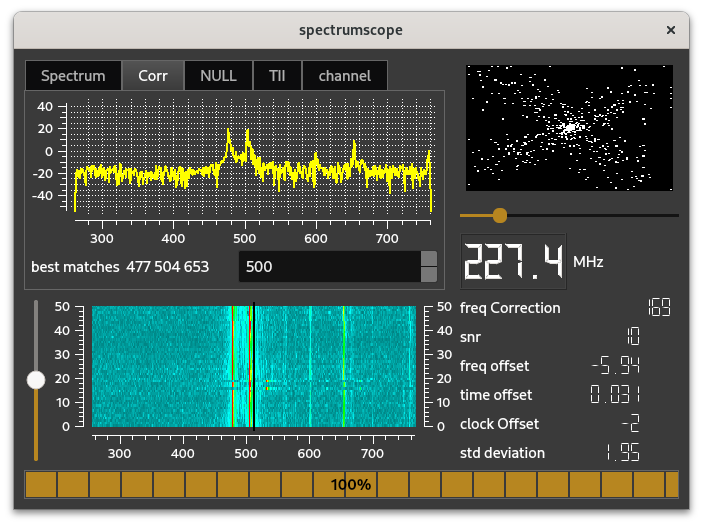
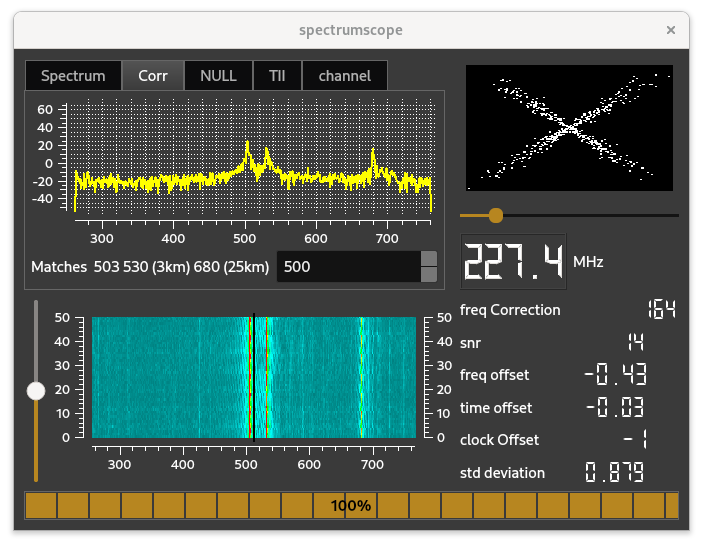
minor changes

diff --git a/qt-dab-s6/radio.cpp b/qt-dab-s6/radio.cpp
@@ -622,8 +622,10 @@ uint8_t	dabBand;
 	      inputDevice -> setVisibility (false);
 	}
 
-	if (dabSettings -> value ("snrVisible", 0). toInt () == 1)
+	if (dabSettings -> value ("snrVisible", 0). toInt () != 0)
 	   my_snrViewer. show ();
+	else
+	   my_snrViewer. hide ();
 	if (dabSettings -> value ("techDataVisible", 0). toInt () == 1)
 	   theTechWindow -> show ();
 
@@ -676,6 +678,7 @@ void	RadioInterface::doStart (const QString &dev) {
 	inputDevice	= setDevice	(dev);
 //	Some buttons should not be touched before we have a device
 	if (inputDevice == nullptr) {
+	   fprintf (stderr, "disconnecting\n");
 	   disconnectGUI ();
 	   return;
 	}
@@ -695,6 +698,7 @@ bool	RadioInterface::doStart	() {
 	channel. cleanChannel ();
 
 //	Some hidden buttons can be made visible now
+	fprintf (stderr, "Connecting GUI\n");
 	connectGUI ();
 
 	if (dabSettings -> value ("showDeviceWidget", 0).  toInt () != 0)
@@ -1707,6 +1711,7 @@ void	RadioInterface::newDevice (const QString &deviceName) {
 	running. store (false);
 	stopScanning	(false);
 	stopChannel	();
+	fprintf (stderr, "disconnecting\n");
 	disconnectGUI	();
 	if (inputDevice != nullptr) {
 	   delete inputDevice;
@@ -2214,6 +2219,11 @@ void	RadioInterface::connectGUI	() {
 	         this, SLOT (handle_prevServiceButton ()));
 	connect (nextServiceButton, SIGNAL (clicked ()),
 	         this, SLOT (handle_nextServiceButton ()));
+	connect (scheduleButton, SIGNAL (clicked ()),
+                 this, SLOT (handle_scheduleButton ()));
+        connect (spectrumButton, SIGNAL (clicked ()),
+                 this, SLOT (handle_spectrumButton ()));
+	fprintf (stderr, "geinstalleerd\n");
 
 	connect (theTechWindow, SIGNAL (handle_audioDumping ()),
 	         this, SLOT (handle_audiodumpButton ()));
@@ -2243,7 +2253,10 @@ void	RadioInterface::disconnectGUI () {
 	         this, SLOT (handle_prevServiceButton ()));
 	disconnect (nextServiceButton, SIGNAL (clicked ()),
 	         this, SLOT (handle_nextServiceButton ()));
-
+	disconnect (scheduleButton, SIGNAL (clicked ()),
+	         this, SLOT (handle_scheduleButton ()));
+	disconnect (spectrumButton, SIGNAL (clicked ()),
+	         this, SLOT (handle_spectrumButton ()));
 	disconnect (theTechWindow, SIGNAL (handle_audioDumping ()),
 	         this, SLOT (handle_audiodumpButton ()));
 	disconnect (theTechWindow, SIGNAL (handle_frameDumping ()),
@@ -4388,9 +4401,10 @@ std::vector<float> inBuffer;
 	inBuffer. resize (s);
 	responseBuffer. getDataFromBuffer (inBuffer. data (), s);
 	responseBuffer. FlushRingBuffer ();
-	if (!newDisplay. isHidden ())
+	if (!newDisplay. isHidden ()) {
 	   if (newDisplay. get_tab () == SHOW_CORRELATION)
 	      newDisplay. showCorrelation (inBuffer, r);
+	}
 }
 	      
 void	RadioInterface::show_null		(int amount) {
@@ -4692,17 +4706,11 @@ void	RadioInterface::connect_configWidget () {
 	connect (configWidget. dumpButton, SIGNAL (clicked ()),
 	         this, SLOT (handle_sourcedumpButton ()));
 
-	connect (scheduleButton, SIGNAL (clicked ()),
-	         this, SLOT (handle_scheduleButton ()));
+//	connect (scheduleButton, SIGNAL (clicked ()),
+//	         this, SLOT (handle_scheduleButton ()));
 
-	connect (spectrumButton, SIGNAL (clicked ()),
-	         this, SLOT (handle_spectrumButton ()));
-
-	connect (configWidget. snrButton, SIGNAL (clicked ()), 
-	         this, SLOT (handle_snrButton ()));
-
-	connect (configWidget. devicewidgetButton, SIGNAL (clicked ()),
-	         this, SLOT (handle_devicewidgetButton ()));
+//	connect (spectrumButton, SIGNAL (clicked ()),
+//	         this, SLOT (handle_spectrumButton ()));
 
 	connect (configWidget. resetButton, SIGNAL (clicked ()),
 	         this, SLOT (handle_resetButton ()));
@@ -4835,11 +4843,6 @@ void	RadioInterface::disconnect_configWidget () {
 	disconnect (configWidget. dumpButton, SIGNAL (clicked ()),
 	         this, SLOT (handle_sourcedumpButton ()));
 
-	disconnect (scheduleButton, SIGNAL (clicked ()),
-	         this, SLOT (handle_scheduleButton ()));
-
-	disconnect (spectrumButton, SIGNAL (clicked ()),
-	         this, SLOT (handle_spectrumButton ()));
 
 	connect (configWidget. snrButton, SIGNAL (clicked ()), 
 	         this, SLOT (handle_snrButton ()));

diff --git a/src/ofdm/correlator.cpp b/src/ofdm/correlator.cpp
@@ -33,6 +33,8 @@
   *	The class inherits from the phaseTable.
   */
 
+#define	MAX_OFFSET	250
+
 	correlator::correlator (RadioInterface *mr,
 	                                processParams	*p):
 	                                     phaseTable (p -> dabMode),
@@ -107,7 +109,7 @@ float	lbuf [T_u / 2];
 	sum /= T_u / 2;
 	QVector<int> indices;
 
-	for (i = T_g - 250; i < T_g + 250; i ++) {
+	for (i = T_g - MAX_OFFSET; i < T_g + MAX_OFFSET; i ++) {
 	   if (lbuf [i] / sum > threshold)  {
 	      bool foundOne = true;
 	      for (int j = 1; (j < 10) && (i + j < T_g + 250); j ++) {
@@ -126,6 +128,24 @@ float	lbuf [T_u / 2];
 	      }
 	   }
 	}
+
+	for (int i = 0; i < indices. size (); i ++) {
+	   if (500 <= indices. at (i) && indices. at (i) <= 510) {
+	      int match = indices. at (i);
+	      std::vector<int> temp;
+	      temp. push_back (indices. at (i));
+	      for (int j = 0; j < i; j ++)
+	         temp. push_back (indices. at (j));
+	      for (int j = i + 1; j < indices. size (); j ++)
+	         temp. push_back (indices. at (j));
+	      indices. resize (0);
+	      for (int i = 0; i < temp. size (); i ++)
+	         indices. push_back (temp. at (i));
+	      break;
+	   }
+	}
+	      
+	
 
 	if (Max / sum < threshold) {
 	   return (- abs (Max / sum) - 1);

diff --git a/qt-dab-s6/forms-v6/new-display/display-widget.cpp b/qt-dab-s6/forms-v6/new-display/display-widget.cpp
@@ -164,13 +164,21 @@ void	displayWidget::showCorrelation	(std::vector<float> &v,
 	                                 QVector<int> &ww) {
 	if (currentTab != SHOW_CORRELATION)
 	   return;
-	myCorrelationScope	-> display (v,correlationLength -> value ());
+	myCorrelationScope	-> display (v, correlationLength -> value ());
 	if (ww. size () > 0) {
-	   QString t = "best matches ";
-	   for (int i = 0; i < ww. size (); i ++)
+	   int baseOffset = ww [0];
+	   QString t = "Matches ";
+	   for (int i = 0; i < ww. size (); i ++) {
 	      t = t + " " + QString::number (ww [i]);
+	      if (i >= 1) {
+	         int lO = ww [i] - ww [0];
+	         int d = (300000 / 2048 * lO) / 1000;
+	         t = t + " (" + QString::number (d) + "km)";
+	      }
+	   }
 	   correlationsVector -> setText (t);
 	}
+
 	if (v. size () < 512)
 	   return;
 	double X_axis [512];

diff --git a/viewers/snr-viewer/snr-viewer.cpp b/viewers/snr-viewer/snr-viewer.cpp
@@ -116,18 +116,17 @@ QString	colorString	= "black";
 //	delete lpickerMachine;
 }
 
-
 void	snrViewer::show () {
-	myFrame. show();
+	myFrame. show ();
 }
 
 void	snrViewer::hide	() {
-	myFrame. hide();
+	myFrame. hide ();
 	stopDumping ();
 }
 
 bool	snrViewer::isHidden () {
-	return myFrame. isHidden();
+	return myFrame. isHidden ();
 }
 
 void	snrViewer::add_snr	(float snr) {

diff --git a/src/ofdm/estimator.cpp b/src/ofdm/estimator.cpp
@@ -78,7 +78,7 @@ float	Phi_k;
 	   }
 	}
 
-	fprintf (stderr, "numberofPilots %d (%d)\n", numberofPilots, carriers);
+//	fprintf (stderr, "numberofPilots %d (%d)\n", numberofPilots, carriers);
         numberofTaps		= T_g;
         F_p                     = MatrixXd (numberofPilots, numberofTaps);
         S_p                     = MatrixXd (numberofPilots,

diff --git a/src/backend/backend.cpp b/src/backend/backend.cpp
@@ -97,7 +97,7 @@ int32_t i, j;
 #endif
 }
 
-	Backend::~Backend() {
+	Backend::~Backend () {
 #ifdef	__THREADED_BACKEND
 	running. store (false);
 	while (this -> isRunning())
